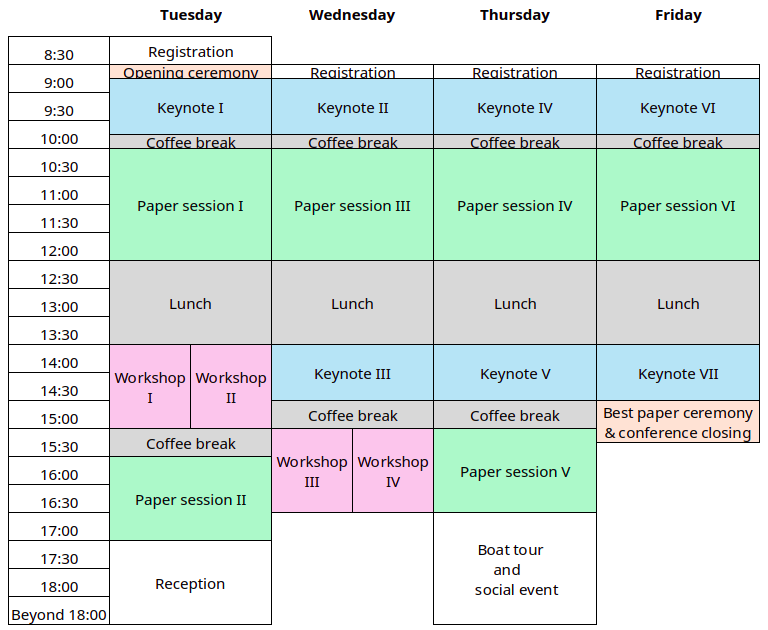
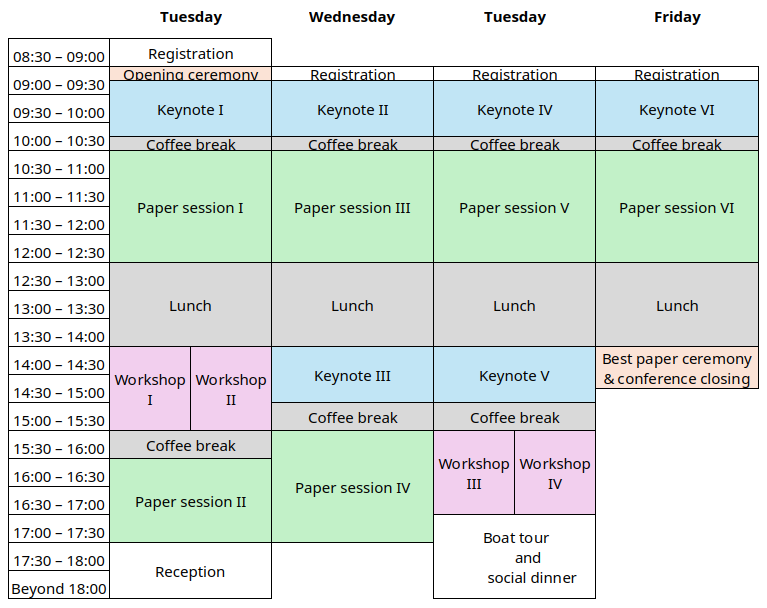
updated programme

diff --git a/_pages/programme.md b/_pages/programme.md
@@ -4,12 +4,11 @@ permalink: /programme/
 toc: true
 toc_sticky: true
 ---
-<!--
+
 ### Program at a Glance
 ![IFIP Summer School 2025 Program](../assets/images/IFIPSC25_program_at_a_glance.png)
 
 ### Detailed Program
--->
 #### Day 1 :: Tuesday, August 19, 2025
 **8:30 -- 9:00**: Registration
 
@@ -31,7 +30,7 @@ toc_sticky: true
 
 **14:00 -- 15:30**: Workshops
 * Workshop I: *Ramona Adair, Ina Schiering and Tom Lorenz*: Privacy Awareness Cards
-* Workshop II: *Michael Friedewald, Marc Steen and Greta Runge*: Citizen Engagement in Cybersecurity Research
+* Workshop II: *Kai Rannenberg et al.*: The CyberSecPro approach to training in Cybersecurity and its relation to Privacy and Identity Management
 
 **15:30 -- 16:00**: Coffee break
 
@@ -93,7 +92,7 @@ toc_sticky: true
 **15:00 -- 15:30**: Coffee break
 
 **15:30 -- 17:00**: Workshops
-* Workshop III: *Kai Rannenberg et al.*: The CyberSecPro approach to training in Cybersecurity and its relation to Privacy and Identity Management
+* Workshop III: *Michael Friedewald, Marc Steen and Greta Runge*: Citizen Engagement in Cybersecurity Research
 * Workshop IV: *Gurvirender Tejay and Umit Cali*: Connected Vehicles and Digital Privacy: An Applied Workshop using IEEE Digital Privacy Model
 
 **after the end of the last session**: Boats tour and social dinner
